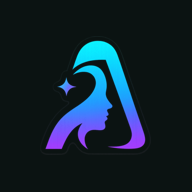
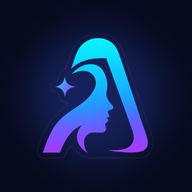
Add files via upload

diff --git a/README.md b/README.md
@@ -59,28 +59,22 @@ ARPIK.AI asks the questions that turn a feeling into a plan: **what happened, wh
 | **Growth** | Streak, mood trend, reasons chart, lessons, next-step checklist |
 | **Lesson card** | Turn a lesson into a shareable image |
 | **Private by design** | Reflections stay on your device; optional app PIN; download or delete your data any time |
-| **Two AI modes** | *Instant* (free online AI) and *Private* (AI runs on your own device) |
+| **Free AI** | Replies come from a free online AI. If it is busy, you get a guided summary and official links instead of an error |
+| **Section colours** | Every section has its own dark colour theme, so you always know where you are |
 | **Install as an app** | Works like an app on your phone, and the basics work offline |
 
 <br>
 
-## Instant vs Private mode
+## How the AI works
 
-| | Instant | Private |
-|:---|:---|:---|
-| Speed | Fast | Slower the first time (downloads a small model once) |
-| Where your text goes | Sent to a free AI service (Pollinations) to get a reply | Stays on your device |
-| Works offline | No | Yes, after the first download |
-| Needs | Any modern browser | Chrome or Edge on a newer device |
-
-If the free online AI is busy, ARPIK.AI shows a simple guided summary and official links instead of failing.
+ARPIK.AI uses a free online AI service ([Pollinations](https://pollinations.ai)) to write replies. It tries several models and retries when one is busy. If none respond, the app shows a simple guided summary and official links, so you are never left with an empty screen.
 
 <br>
 
 ## Privacy and safety
 
 - **Your reflections are stored only on your own device.** ARPIK.AI does not save chats on any server.
-- In **Instant mode** your text is sent to a free third-party AI service to create the reply. Use **Private mode** if you want it to stay on your device.
+- Your text is sent to a free third-party AI service (Pollinations) to create the reply. Do not write anything you would not want sent online.
 - The **app PIN** is a casual lock that hides the app from people using your phone. Data on the device is not encrypted.
 - **ARPIK.AI is not a therapist and not an emergency service.** If someone writes about hurting themselves, the app shows a support message with **Tele-MANAS 14416** (India, free, 24x7) and **112** for emergencies, and encourages talking to a trusted person.
 - The **Feedback** form sends your message by email through a free form service. Please do not write private details from your reflections there.
@@ -99,7 +93,7 @@ If the free online AI is busy, ARPIK.AI shows a simple guided summary and offici
 
 ARPIK.AI is a static website with no build step.
 
-1. Put these files in a GitHub repository: `index.html`, `manifest.webmanifest`, `sw.js`, `icon-192.png`, `icon-512.png`, `arpik-ai.png`.
+1. Put these files in a GitHub repository: `index.html`, `manifest.webmanifest`, `sw.js`, `icon-192.png`, `icon-512.png`, `icon-maskable-512.png`, `apple-touch-icon.png`, `arpik-ai.png`.
 2. Open **Settings → Pages**, choose *Deploy from a branch*, branch `main`, folder `/ (root)`, and save.
 3. After a minute your site is live at `https://<your-username>.github.io/<repo-name>/`.
 
@@ -107,11 +101,11 @@ The Feedback form uses [FormSubmit](https://formsubmit.co). The first message tr
 
 <br>
 
-## Known limits (version 0.1)
+## Known limits (version 1.0)
 
 - The free online AI can be slow or busy. Answers can be imperfect, so treat them as a thinking aid.
 - The opportunity list is small (17 official platforms) and does not show live deadlines. You add dates yourself.
-- Private mode and voice input depend on your browser and device. Voice recognition is weaker in some languages.
+- Voice input depends on your browser and device. Voice recognition is weaker in some languages.
 - This is a young project. Feedback is what decides what comes next.
 
 <br>
